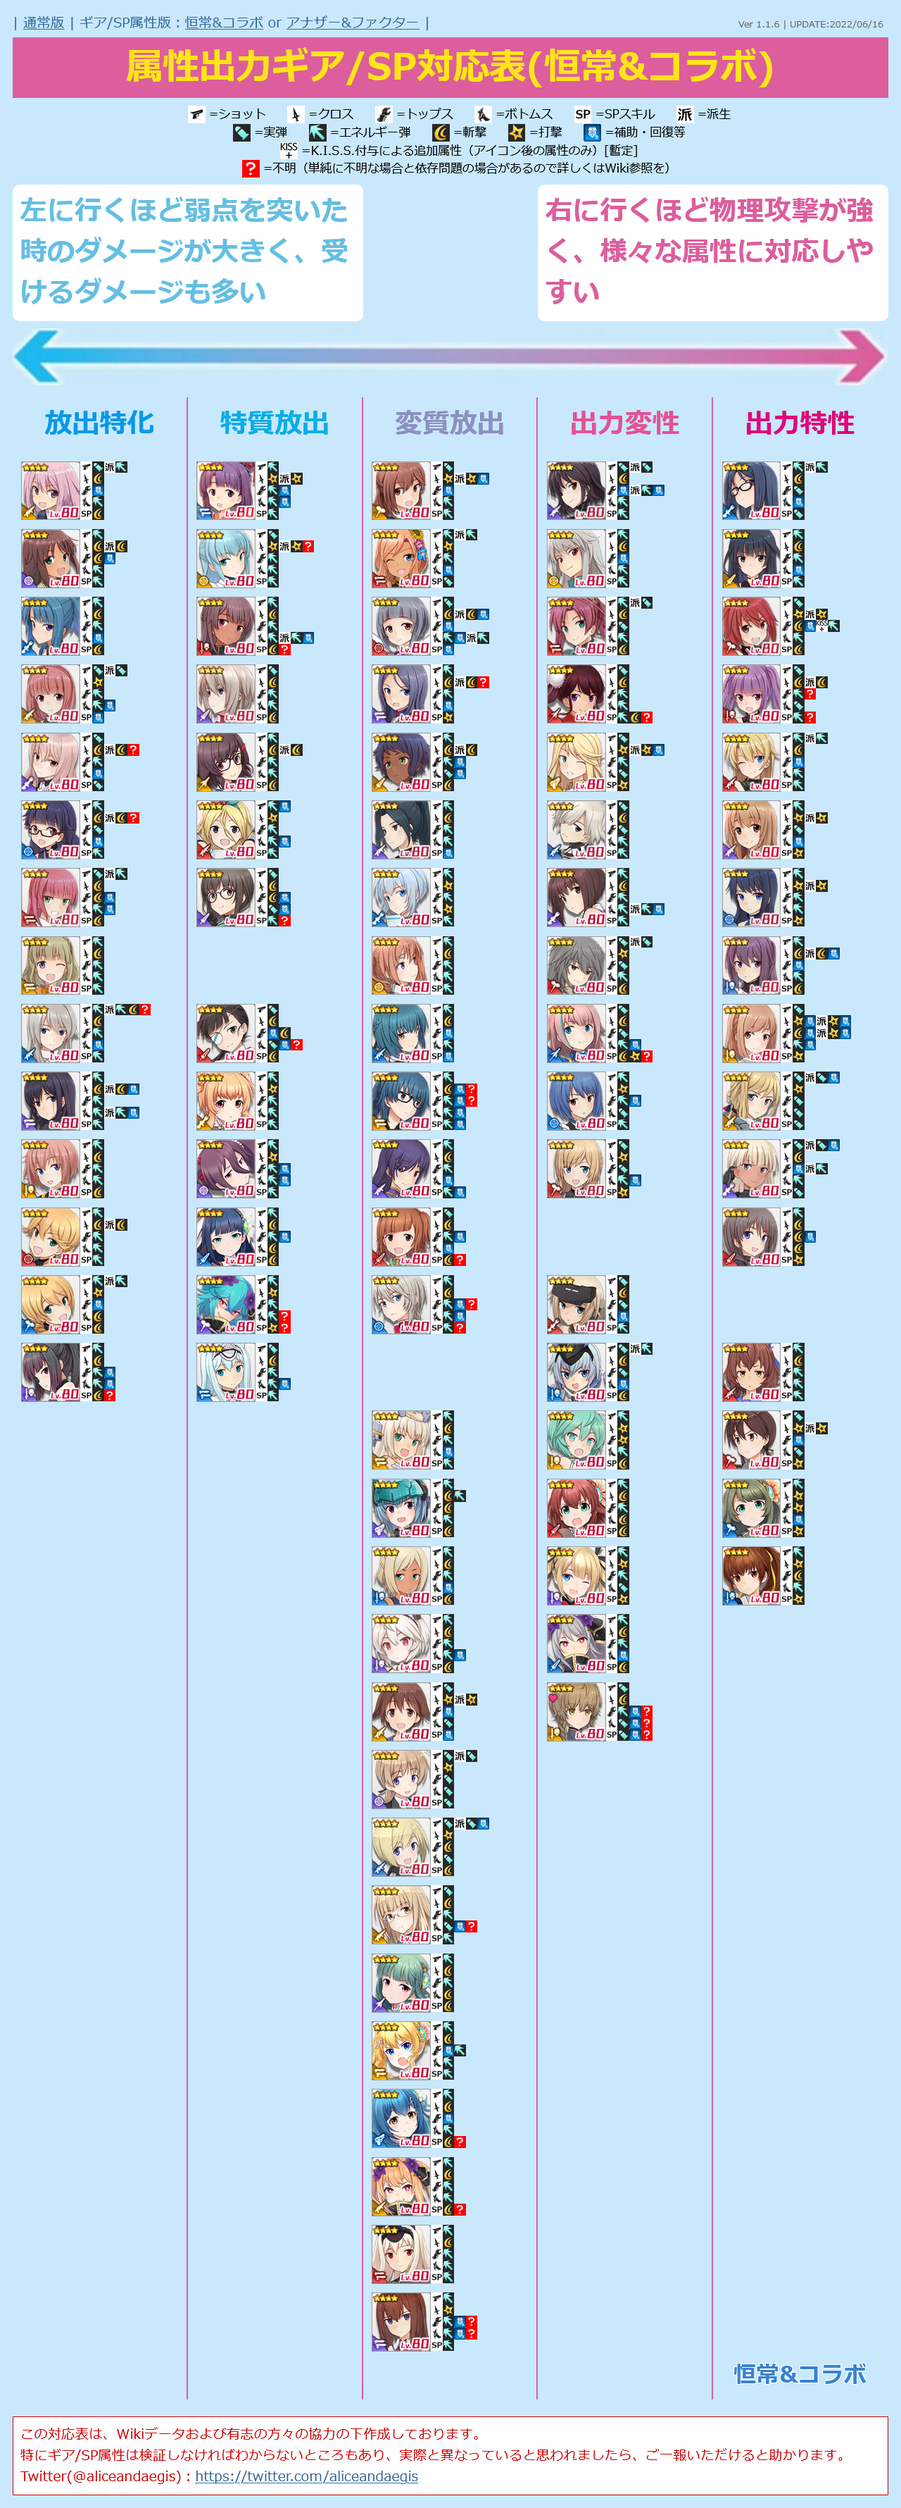
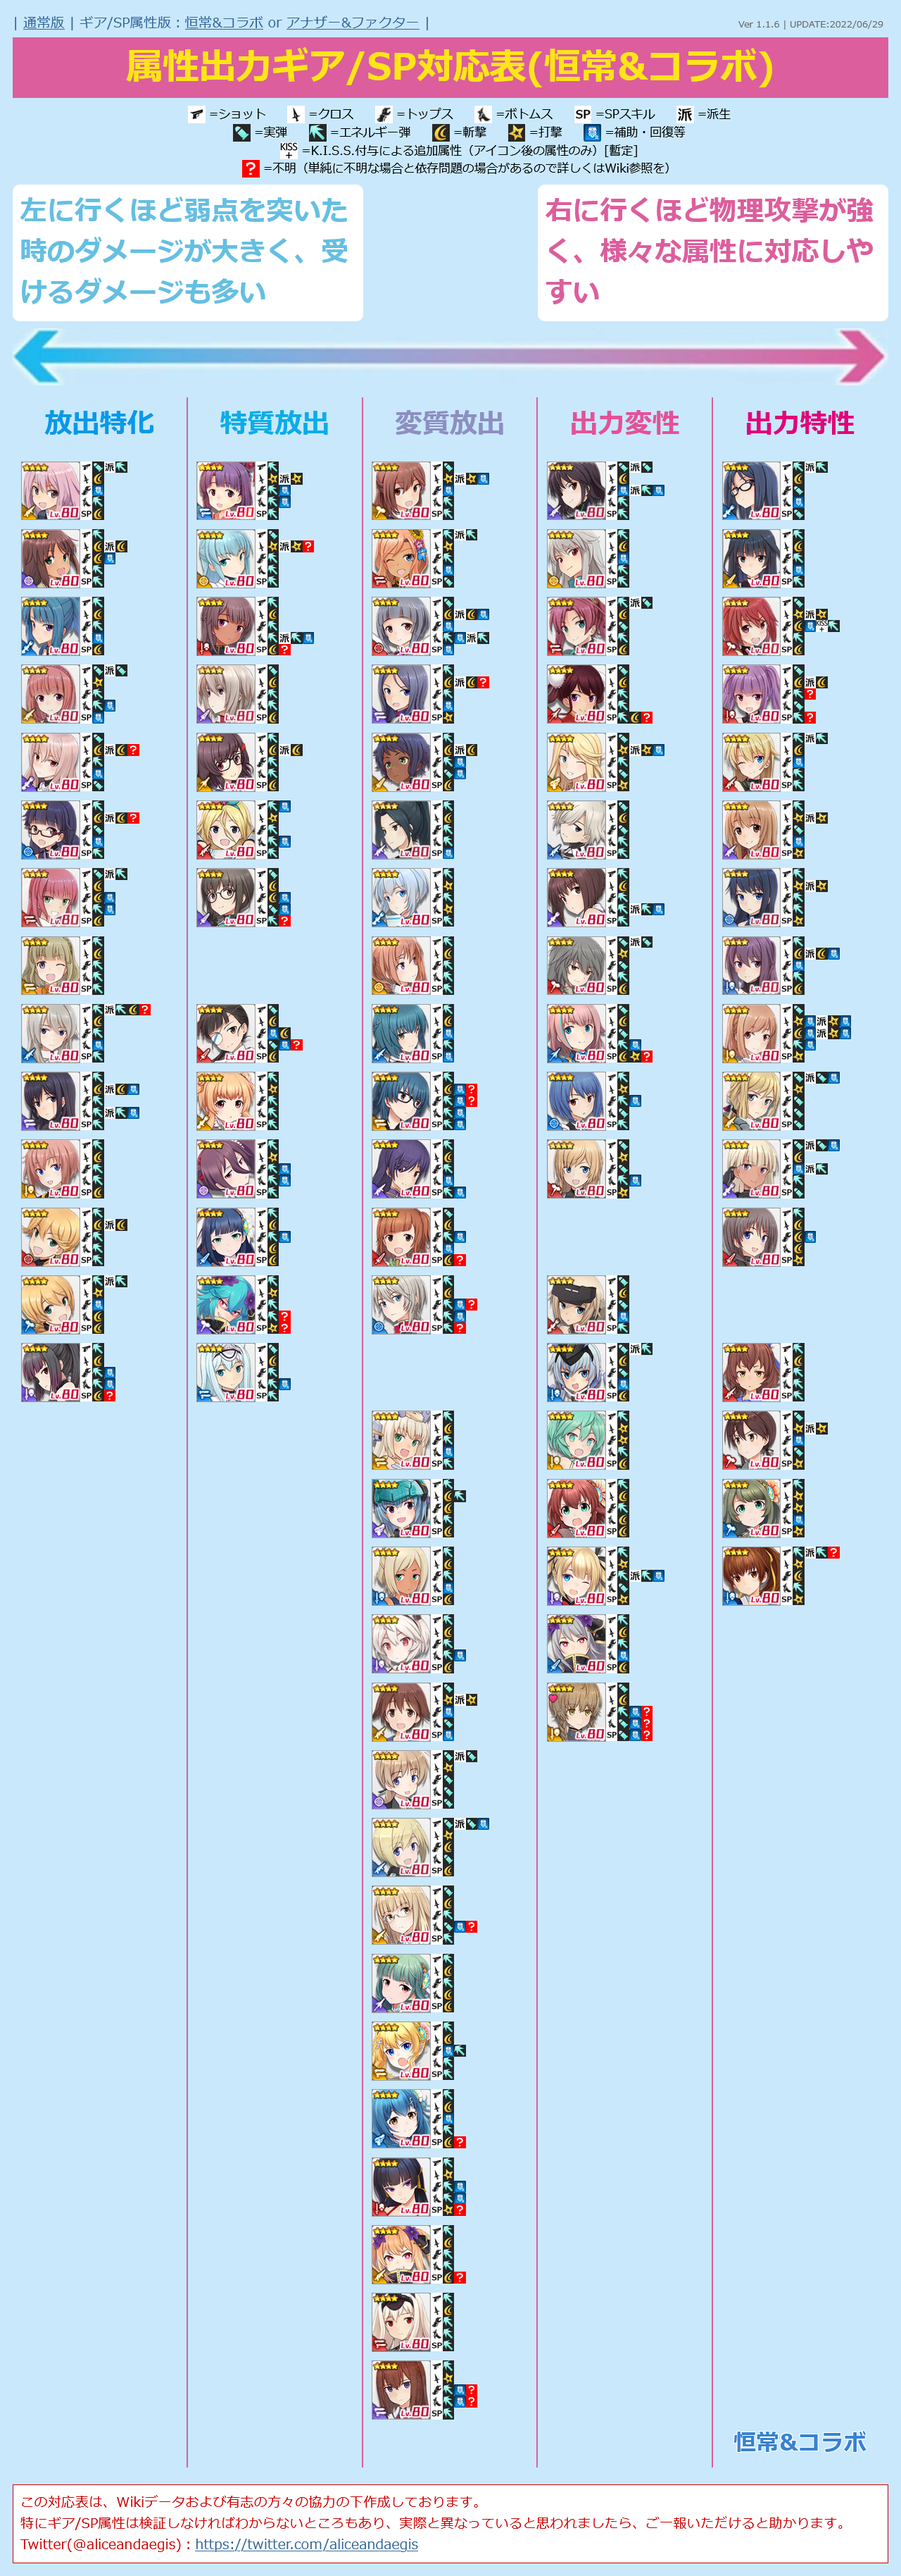
UPDATE charadata
・コラボキャラ 女天狗を追加

Changed region(s): [[0.0, 0.0, 1.0, 0.9978], [0.8125, 0.9354, 0.9688, 0.9666]]

diff --git a/alice.html b/alice.html
@@ -12,7 +12,7 @@
   <script>
 
 /* 更新情報 必要に応じて書き換えてください */
-  var version = "Ver 1.1.6 | UPDATE:2022/06/16";
+  var version = "Ver 1.1.6 | UPDATE:2022/06/29";
 
 
 /*
@@ -1921,7 +1921,7 @@
       "name": "マリー・ローズ",
       "equip1": "2",
       "equip2": "4",
-      "equip3": "2",
+      "equip3": "2/25",
       "equip4": "1",
       "sp": "4",
       "attr": "2",
@@ -1933,13 +1933,27 @@
       "type": "5",
       "src": "normal-kasumi.png",
       "name": "かすみ",
-      "equip1": "2",
+      "equip1": "2/2?",
       "equip2": "4",
       "equip3": "3",
       "equip4": "2",
       "sp": "4",
       "attr": "4",
       "link": "https://wikiwiki.jp/alicegear/%E3%81%8B%E3%81%99%E3%81%BF",
+      "category": "99"
+    },
+    {
+      "id": "503",
+      "type": "3",
+      "src": "normal-onnatengu.png",
+      "name": "女天狗",
+      "equip1": "2",
+      "equip2": "4",
+      "equip3": "25",
+      "equip4": "25",
+      "sp": "4?",
+      "attr": "3",
+      "link": "https://wikiwiki.jp/alicegear/%E5%A5%B3%E5%A4%A9%E7%8B%97",
       "category": "99"
     },
     {
